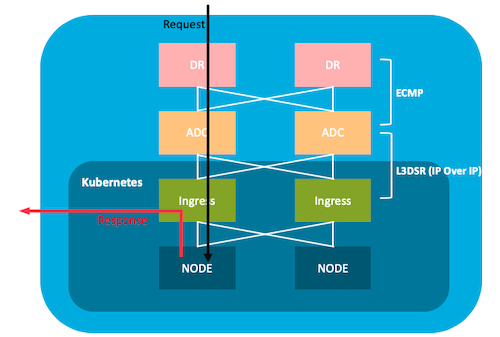
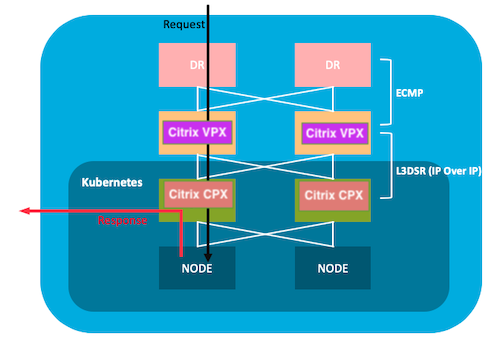
DSR on kubernetes platform using Citrix ADC

diff --git a/dsr/README.md b/dsr/README.md
@@ -12,7 +12,7 @@
 6. [Misc](#misc)
 
 # **Introduction**
-DSR is an implementation of asymmetric network load distribution in load-balanced systems, meaning that the request and response traffic uses a different network path.
+DSR is a method  of asymmetric network load distribution in load-balanced systems, where request and response have different network paths.
 The use of different network paths helps avoid extra hops and reduces the latency by which not only speeds up the response time between the client and the service but also removes some extra load from the load balancer. Using DSR is a transparent way to achieve increased network performance for your applications with little to no infrastructure changes.
 
 Some of the pros and cons of DSR mode of topologies are,
@@ -99,13 +99,13 @@ This section helps to create configurations required on the ingress device for D
 <a name="cnc"></a>
 ## **3. Establish Network connectivity between Tier-1 and Tier-2**
 
-- ## **Download the CNC yaml**
+- ## **Download the CitrixNodeController yaml**
 	```
 	wget https://raw.githubusercontent.com/citrix/citrix-k8s-node-controller/master/deploy/citrix-k8s-node-controller.yaml
 	```
-- ## **Provide Input for CNC**
+- ## **Provide Input for CitrixNodeController**
 	Provide NS_IP, NS_USER, NS_PASSWORD and REMOTE_VTEPIP arguments. Please refer [here](https://github.com/citrix/citrix-k8s-node-controller) for more detailed information.
-- ## **Deploy the CNC**
+- ## **Deploy the CitrixNodeController**
 	```
            kubectl create -f citrix-k8s-node-controller.yaml -n dsr
 	```
